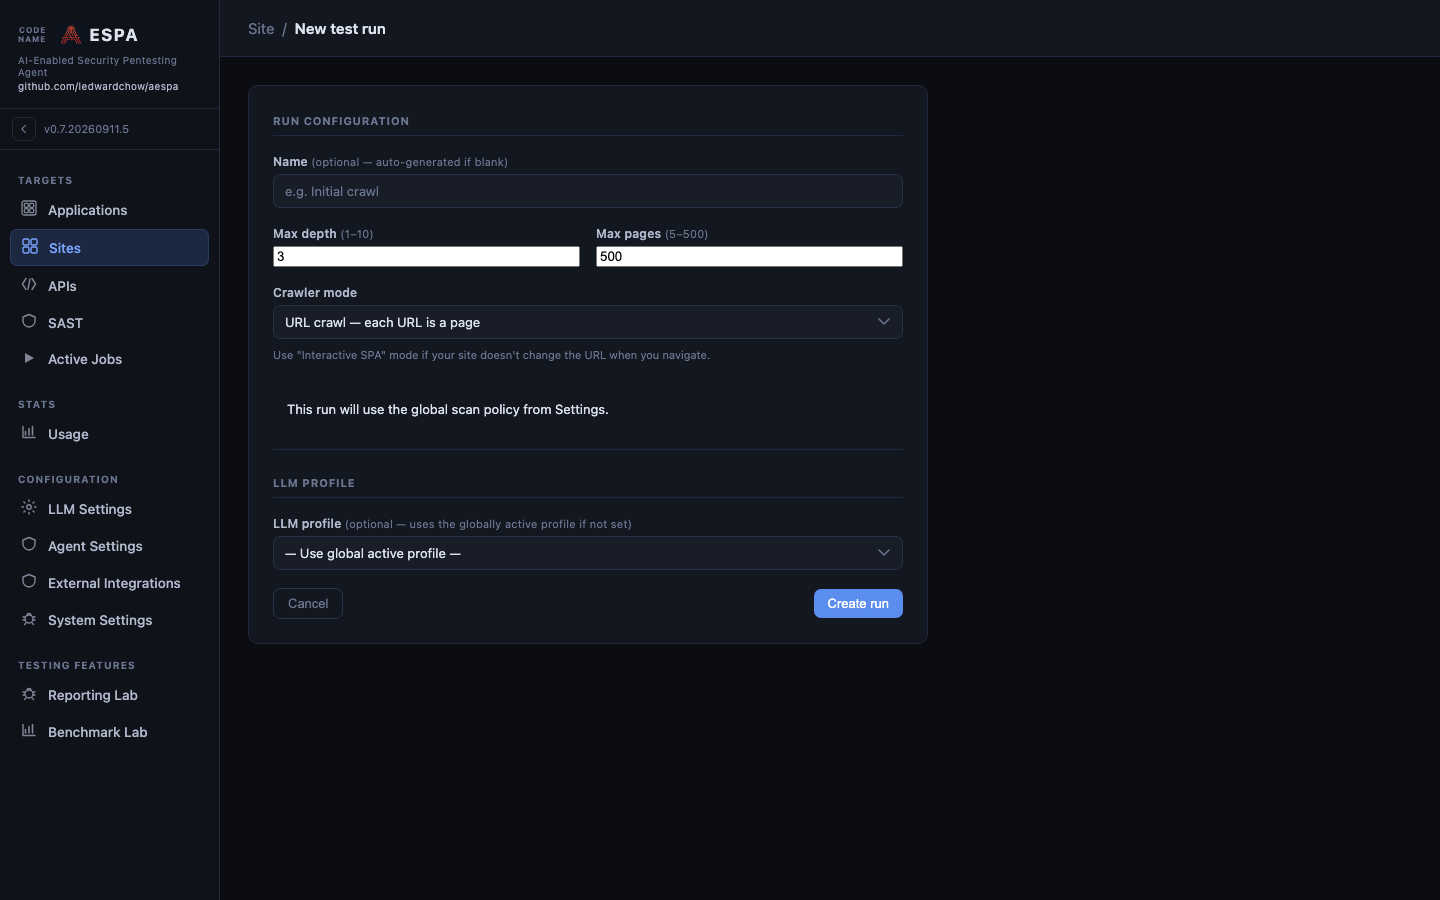
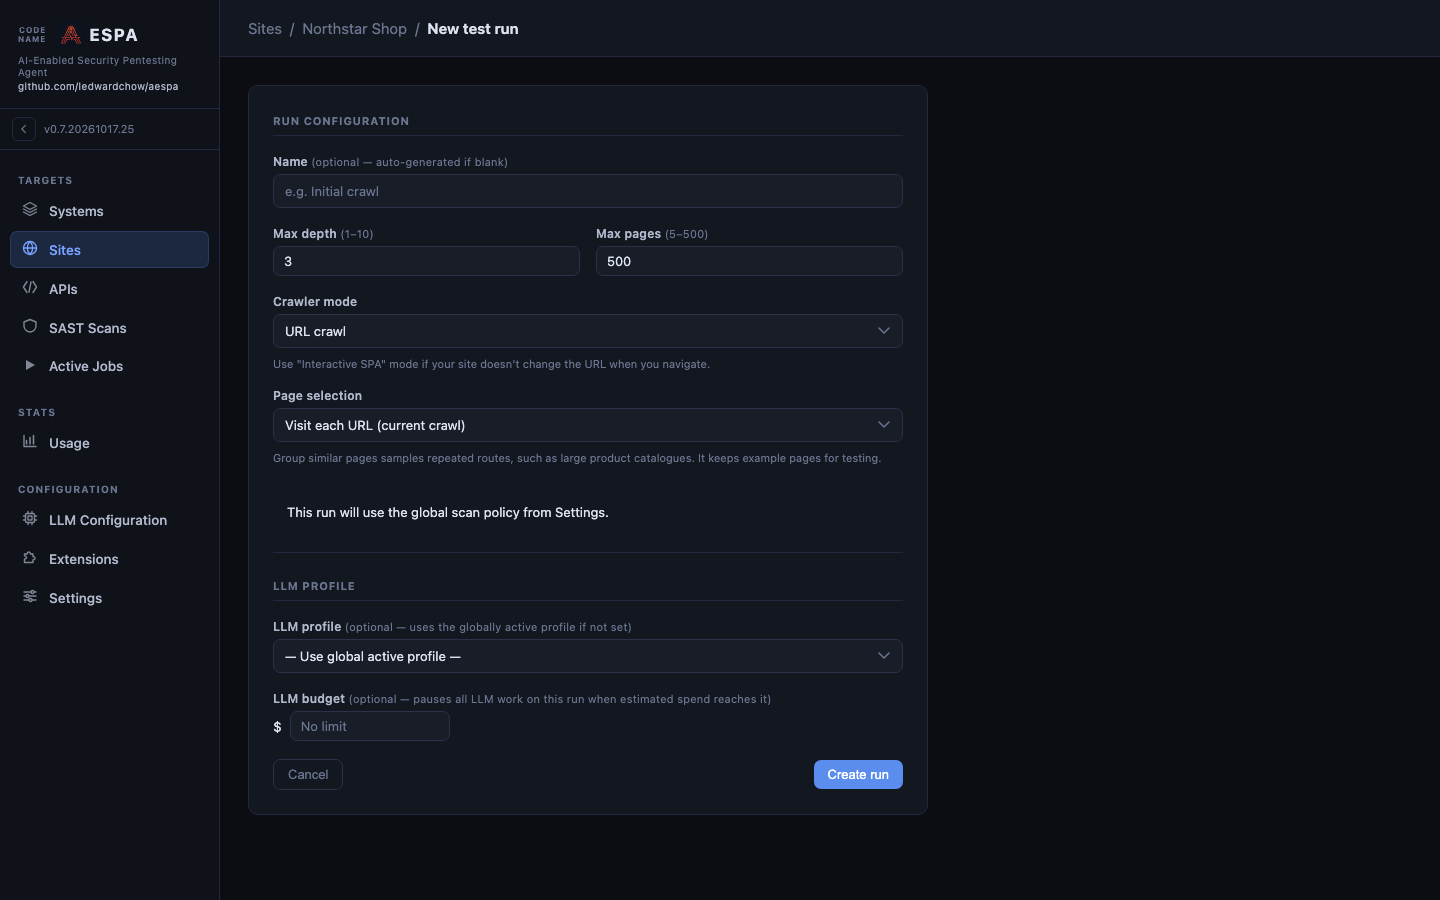
update screenshots

diff --git a/README.md b/README.md
@@ -14,13 +14,16 @@ Testing :) It's got a cool UI and stuff.
 
 ## Features
 
-Multi-agent web and API testing with a Test Lead, focused specialists,
-adversarial validation, and reporting. AESPA also includes standalone Light and
-Deep SAST, focused live validation of imported source leads, multi-repository
-System campaigns, and account-wide LLM usage statistics.
+Point-and-click SAST and DAST for web applications, optimised for cost.
 
-Dynamic scans support four workflows: Quick, Standard coverage, Full coverage,
-and SAST Validate.
+Give it the source code of a web app via ZIP or GitHub checkout, and it'll spit out the findings.
+
+You can feed those SAST findings into a DAST scan for better performance/less tokens spent finding things, or just do straight grey-box DAST without the source.
+
+The DAST module will give you a lot of information about what is going on:
+
+- What each agent is doing
+- An OWASP coverage sheet, listing each URL route and discovered business process/workflow + what testing was undertaken against each
 
 You will need to provide:
 
@@ -47,11 +50,7 @@ The best performing models (cost/benefit) are:
 
 ## Documentation
 
-The [Architecture](docs/architecture.md).
-
-The [changelog](CHANGELOG.md).
-
-The [User Guide](docs/guide/index.md)!
+[Changelog](CHANGELOG.md)
 
 ## Requirements
 
@@ -69,6 +68,7 @@ The [User Guide](docs/guide/index.md)!
   - [Factory.AI](http://Factory.AI) subscription (via Droid CLI)
   - GitHub Copilot subscription (via Copilot CLI)
   - ChatGPT subscription (via Sign in with ChatGPT or Codex CLI). 
+    - Note since 16 Oct 2026 I've experienced a large number of cyber refusals on "sign in with ChatGPT" on a Daybreak account, which didn't occur when using the Codex CLI provider. I can't explain it either, just something to be aware of if this happens to you.
   - Google Antigravity subscription (via agy CLI)
 
 If your API key has TPM/RPM quota caps this is configurable in the LLM Settings UI. If left unconfigured i've seen this consume up to ~10m TPM bursts.
@@ -79,7 +79,7 @@ If you aren't part of any, I recommend the following:
 
 - Claude Sonnet 5 (doesn't seem to hit cyber refusals unless you type something sus on ALICE), usable results
 - Qwen 3.8 27b, runs locally on a 64GB Macbook or 24GB CUDA card, this performs better than Sonnet 5
-- Any Qwen 3.8 model or GLM 5.3
+- GLM 5.3
 
 ## Running (macOS/Windows)
 
@@ -87,7 +87,11 @@ Standalone binaries for Windows and macOS are available at [GitHub releases](htt
 
 These versions run in the background in the menubar or systray - click on the icon to open the interface/quit the background process. 
 
+Note the builds are automatic and I don't test these that often, the Mac one maybe I use a few times a month to check if it works, the Windows one... only when someone asks.
+
 ## Running with Docker
+
+I don't recommend you use this, running it directly is much easier to troubleshoot.
 
 The image bundles Chromium, so no separate Playwright install is needed.
 
@@ -116,6 +120,8 @@ docker compose up -d --build
 ```
 
 ## Running from source
+
+This is the most recommended way, since when something breaks you can point your favourite vibecoding app at it, paste the error message and off you go again.
 
 ### Setup
 Note, previously the built UI was committed, this is no longer the case. The frontend will build on first launch/any changes automatically, you will require node/npm/vite.
@@ -189,7 +195,7 @@ and press Enter. Backups default to a timestamped SQLite file in your home
 folder. Clear scans keeps targets, LLM connections, and settings. Reset removes
 all database records. Clear and Reset require the confirmation shown on screen.
 
-### Frontend build (only for UI development)
+### Frontend build
 
 The compiled frontend bundle is committed under `src/aespa/web/` to make runs/deployment easier. 
 
@@ -203,17 +209,9 @@ npm run build     # regenerates src/aespa/web/
 
 See [frontend/README.md](frontend/README.md) for the development server, tests, and source layout.
 
-### Run notes
-
-Crawls work well enough on any model, including local models, so you can save a bit of money by using something cheap. Dynamic scans don't work well on local models; for best results, use Sonnet, or the budget option is Minimax M3.
-
-If your site is authenticated and you don't have credentials, you can start a dynamic scan directly without a site map. The agents will just have less context about what it is testing upfront.
-
-This app is intended for local use. The console shows an authentication key and opens a signed-in browser when you press tilde (`~`). Desktop apps sign in automatically. Browsers remember sign-in for 30 days. Keep the data folder and console logs private. For remote access, use an HTTPS reverse proxy and configure the allowed hostname. Integrations use the API extension's bearer tokens. An optional separate integration port is available outside Docker. See [authentication settings](docs/guide/config/settings.md) and [API access](docs/api.md).
-
 ## Configuration
 
-Copy `.env.example` to `.env` and adjust as needed:
+(Optional) Copy `.env.example` to `.env` and adjust as needed:
 
 ```bash
 cp .env.example .env
@@ -256,47 +254,46 @@ Open the app, go to **Settings → LLM**, and configure:
 
 ## Screenshots
 
-Landing page:  
-![Screenshot](docs/images/sites.png)
+These screens use fictional targets and example findings.
 
-Site test runs:  
-![Screenshot](docs/images/testruns.png)
+Systems group code components, Sites, and API collections:
+![A system with a Site and API collection attached as live targets](docs/images/systemtargets.png)
 
-Site setup:  
-![Screenshot](docs/images/sitesetup.png)
+Sites list:
+![Sites list with three example targets](docs/images/sites.png)
 
-Site Map:  
-![Screenshot](docs/images/sitemap.png)
+Web run setup, including crawl options and an optional LLM budget:
+![New web test run form](docs/images/editrun.png)
 
-A.L.I.C.E chat:  
-![Screenshot](docs/images/alice.png)
+Site Map:
+![Site Map for an example web run](docs/images/sitemap.png)
 
-Agents view: 
-![Screenshot](docs/images/agentstatus.png)
+Attack Surface shows routes and their test coverage:
+![Attack Surface route inventory](docs/images/attacksurface.png)
 
-Attack Surface  
-![Screenshot](docs/images/attacksurface.png)
+OWASP coverage for a web run:
+![Web OWASP coverage summary and page matrix](docs/images/webcoverage.png)
 
-Traffic log:  
-![Screenshot](docs/images/trafficlog.png)
+OWASP coverage for workflows:
+![Workflow OWASP coverage table with completed checks, a finding, and a workflow awaiting input](docs/images/workflowcoverage.png)
 
-Findings  
-![Screenshot](docs/images/webfindings.png)
+Workflows found during a crawl:
+![Workflow results, including one that needs input](docs/images/workflows.png)
 
-API Setup  
-![Screenshot](docs/images/apisetup.png)
+Web findings:
+![Confirmed web findings](docs/images/webfindings.png)
 
-Parsed API documentation  
-![Screenshot](docs/images/apispecparsed.png)
+A.L.I.C.E. chat on a web run:
+![A.L.I.C.E. chat reviewing an example finding](docs/images/alice.png)
 
-SAST Scan-based Lead Detection  
-![Screenshot](docs/images/sastleads.png)
+Endpoints parsed from an API document:
+![API collection endpoints](docs/images/apispecparsed.png)
 
-OWASP Coverage for API Scanning  
-![Screenshot](docs/images/apiworkprogram.png)
+OWASP coverage for an API run:
+![API OWASP coverage matrix](docs/images/apiworkprogram.png)
 
-API Scan Findings  
-![Screenshot](docs/images/apifindings.png)
+SAST scan setup:
+![New SAST scan form](docs/images/sastsetup.png)
 
 ## Recommended models
 

diff --git a/CHANGELOG.md b/CHANGELOG.md
@@ -66,6 +66,8 @@ All pull requests merged to `main`, in reverse chronological order.
 
 ### Housekeeping
 
+- **README screenshots**: Updated the screenshots to show the current web, API, SAST, and system screens with fictional example data.
+
 - **Shared run services**: Creating, starting, and stopping web and SAST runs now uses shared services for both AESPA's own API and extensions, so both follow the same checks. Existing API behaviour is unchanged.
 
 - **Documentation cleanup**: Removed unused and duplicate documentation screenshots, along with finished planning notes. The screenshot capture script no longer creates the duplicates. Implementation plans are no longer included in the repository.
